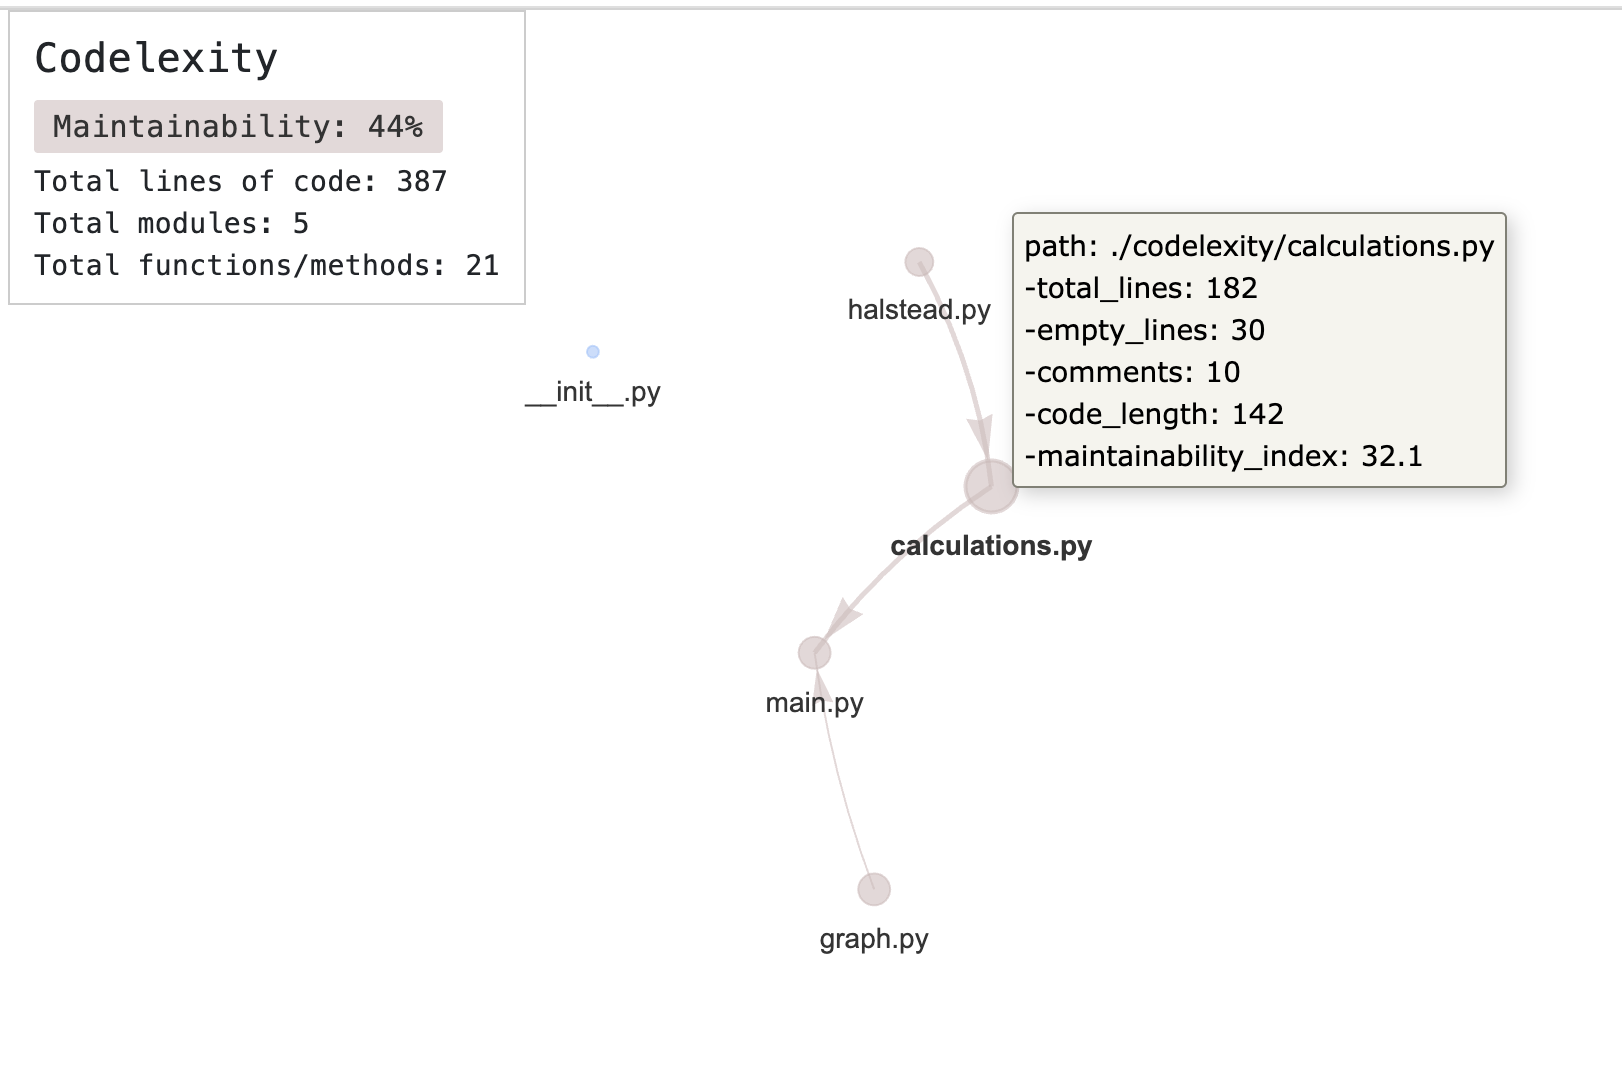
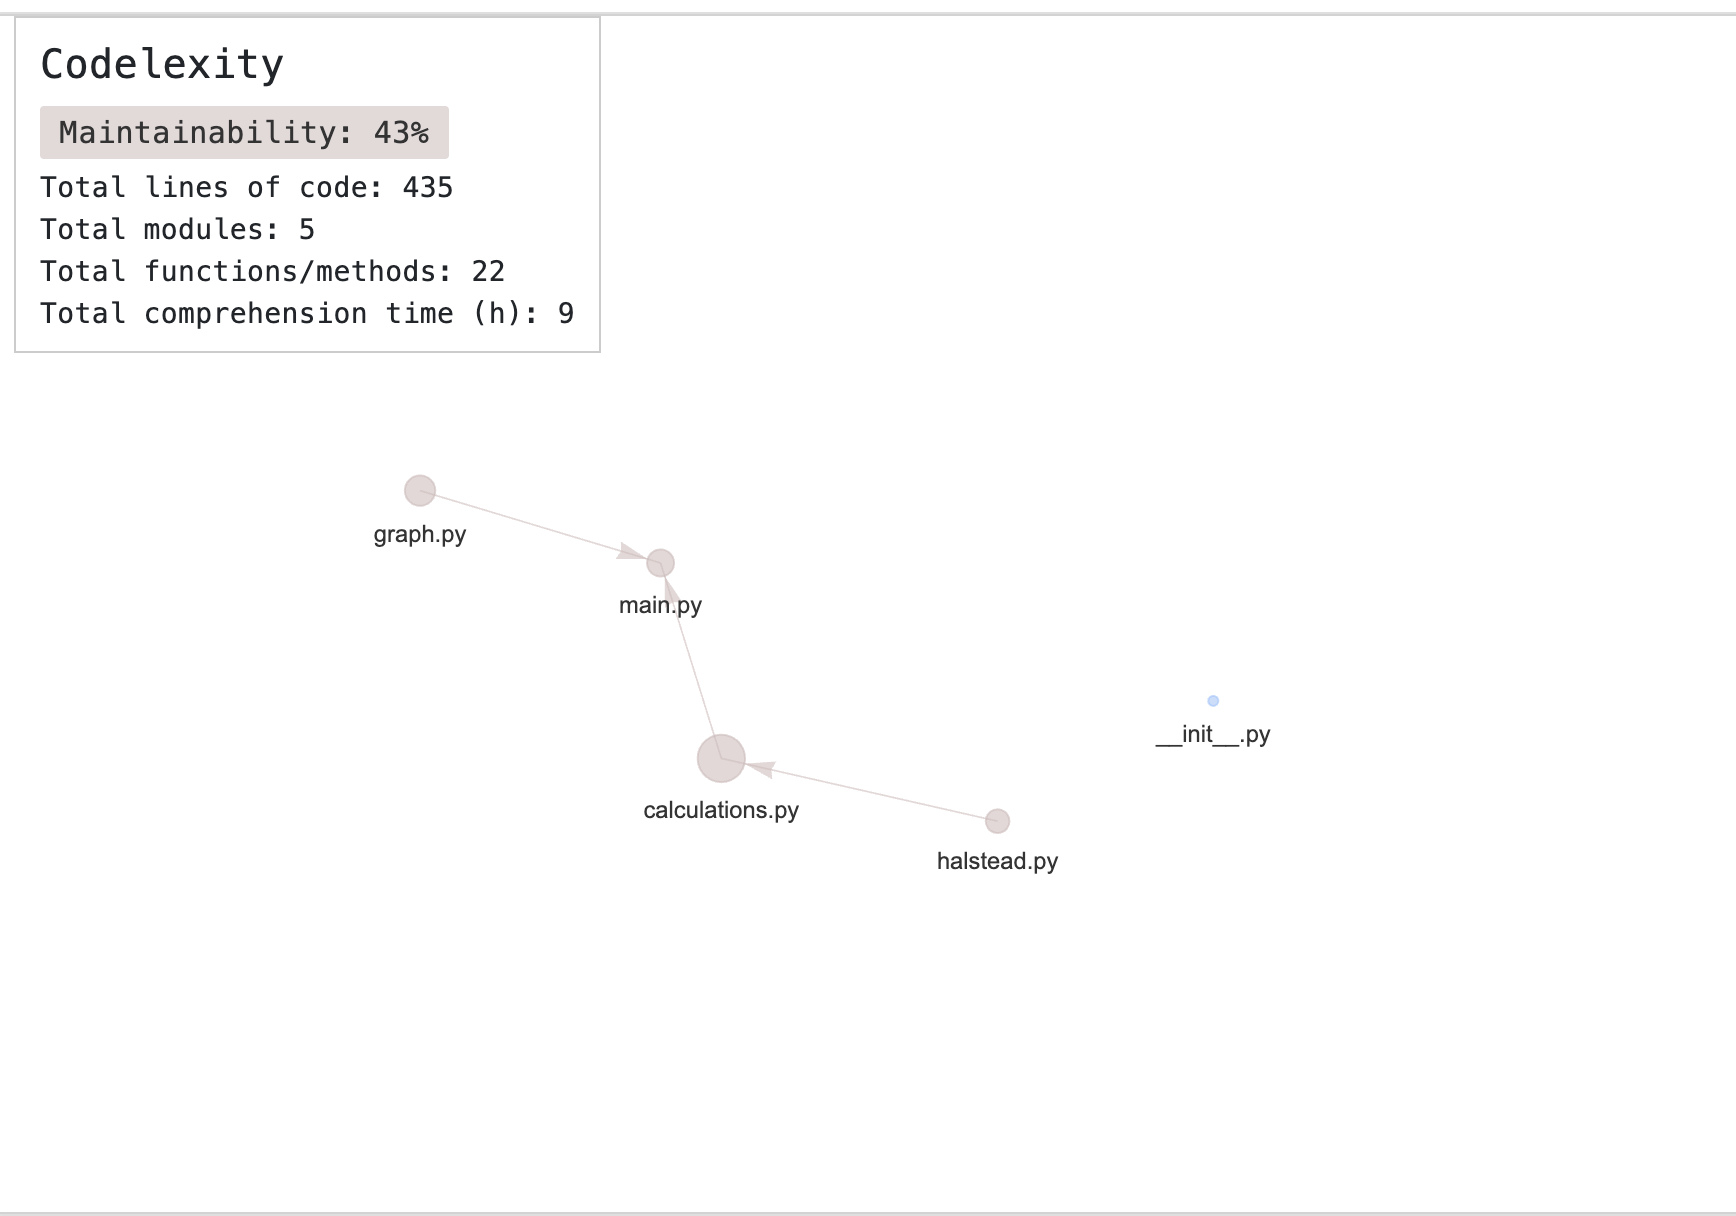
updating assets and fixing bug

diff --git a/src/codelexity/graph.py b/src/codelexity/graph.py
@@ -86,7 +86,7 @@ def create_viz(package_data: dict, fpath: str):
         f"Maintainability: {maintainability_score}%</div><br>"
         f"Total lines of code: {package_data['analytics']['total_lines']}<br>"
         f"Total modules: {package_data['analytics']['total_modules']}<br>"
-        f"Total functions/methods: {package_data['analytics']['total_functions']}</div>"
+        f"Total functions/methods: {package_data['analytics']['total_functions']}<br>"
         f"Total comprehension time (h): {package_data['analytics']['total_man_hours']}</div>"
     )
     path = Path(fpath)
